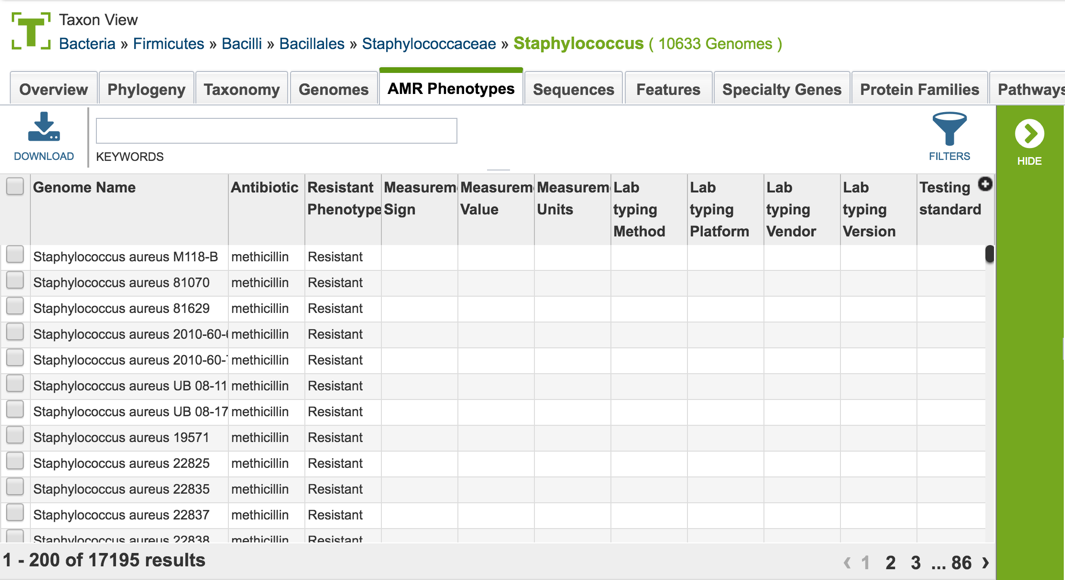
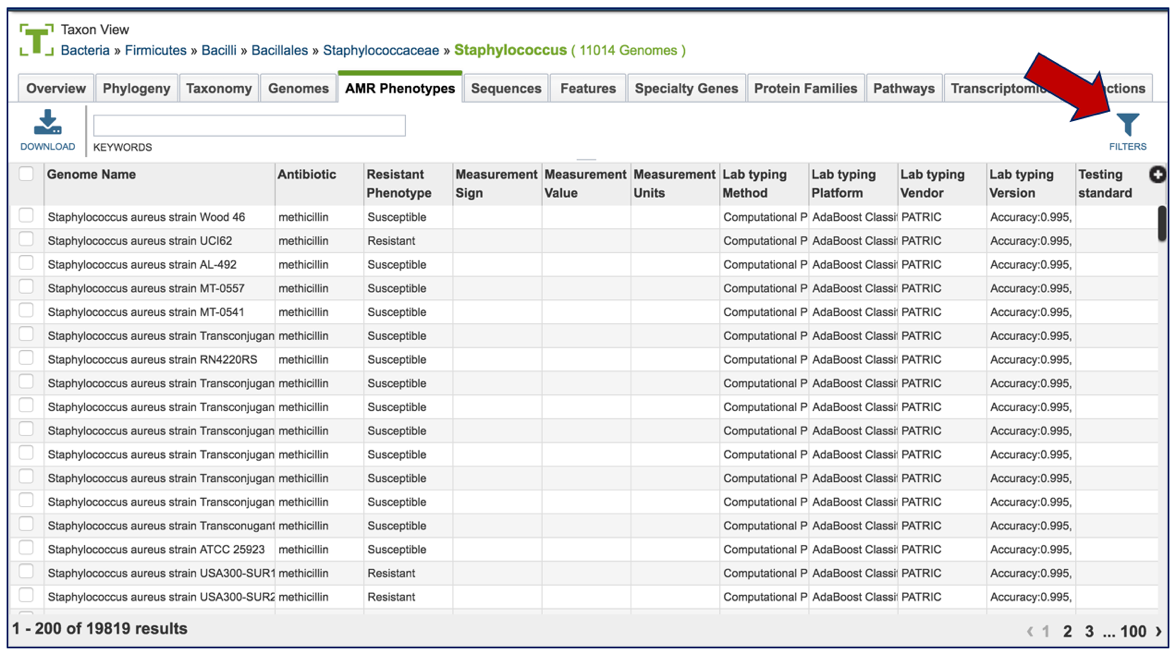
update amr tutorial based on november_2017 doc.

Changed region(s): [[0.0, 0.0, 1.0, 1.0]]

diff --git a/docroot/tutorial/amr/amr.md b/docroot/tutorial/amr/amr.md
@@ -1,51 +1,53 @@
-# Examining Antimicrobial Resistance (AMR) data
+# Examining Antimicrobial Resistance (AMR) data in PATRIC
 
 ## 1. Finding AMR data in PATRIC
+
 1.1. Using Global Search to find antibiotic information
-1.1.1. The Global Search box is located at the top right of every PATRIC page.
+
+- 1.1.1. The Global Search box is located at the top right of every PATRIC page.
 ![Step 1](./images/image1.png "Step 1")
 
-1.1.2. Enter the name of an antibiotic of interest, and then click on the down arrow that follows All Data Types.
+- 1.1.2. Enter the name of an antibiotic of interest, and then click on the down arrow that follows All Data Types.
 ![Step 2](./images/image2.png "Step 2")
 
-1.1.3. This will open a drop-down box that allows you to filter on specific types of data. Click first on Antibiotic, and then on the search icon that you can see in the text box.
+- 1.1.3. This will open a drop-down box that allows you to filter on specific types of data. Click first on Antibiotic, and then on the search icon that you can see in the text box.
 ![Step 3](./images/image3.png "Step 3")
 
-1.1.4. This will open the search results page. You will see higher level categories in a box at the top of the page. Click on the number that follows the word Antibiotics.
+- 1.1.4. This will open the search results page. You will see higher level categories in a box at the top of the page. Click on the number that follows the word Antibiotics.
 ![Step 4](./images/image4.png "Step 4")
 
-1.1.5. This will open the Antibiotics List View where you can drill down on information on specific antibiotics (described below).
+- 1.1.5. This will open the Antibiotics List View where you can drill down on information on specific antibiotics (described below).
 ![Step 5](./images/image5.png "Step 5")
 
 1.2. Using Taxon landing pages to find antibiotic information
-1.2.1. From the Organisms tab, click on a genus of interest.
+
+- 1.2.1. From the Organisms tab, click on a genus of interest.
 ![Step 6](./images/image6.png "Step 6")
 
-1.2.2. This will open the Taxon View landing page, that summarizes all the data for that genus. A table that summarizes the number of genomes that have been identified as resistant, susceptible or intermediate is available on the top right.
+- 1.2.2. This will open the Taxon View landing page, that summarizes all the data for that genus. A table that summarizes the number of genomes that have been identified as resistant, susceptible or intermediate is available on the top right.
 ![Step 7](./images/image7.png "Step 7")
 
-
-1.2.3. To find specific data on the AMR phenotypes, click on that tab at the top of the page.
+- 1.2.3. To find specific data on the AMR phenotypes, click on that tab at the top of the page.
 ![Step 8](./images/image8.png "Step 8")
 
-1.2.4. This will open a table that shows all the genomes across the genus that have been identified as being resistant, intermediate, or susceptible.
+- 1.2.4. This will open a table that shows all the genomes across the genus that have been identified as being resistant, intermediate, or susceptible. Clicking on the filter icon that can be found at the top of the table will open a dynamic filter.
 ![Step 9](./images/image9.png "Step 9")
 
-1.2.5. Clicking on the filter icon that can be found at the top of the table will open a dynamic filter that has information on the phenotype, laboratory typing and testing methods that can be selected to narrow the number of genomes.
+- 1.2.5.	The filter that has information on the phenotype, laboratory typing and testing methods that can be selected to narrow the number of genomes.
 ![Step 10](./images/image10.png "Step 10")
 
-1.2.6. The search can be narrowed by clicking on specific fields.
+- 1.2.6. The search can be narrowed by clicking on specific fields.
 ![Step 11](./images/image11.png "Step 11")
 
-1.2.7. Clicking of a genome of interest will show all possible downstream analysis steps or views will appear in the vertical green bar. Click on the Genome icon.
+- 1.2.7. Clicking of a genome of interest will show all possible downstream analysis steps or views will appear in the vertical green bar. Click on the Genome icon.
 ![Step 12](./images/image12.png "Step 12")
 
-1.2.8. This will open the Genome View landing page, where the AMR phenotypes are displayed on the to right.
+- 1.2.8. This will open the Genome View landing page, where the AMR phenotypes are displayed on the to right.
 ![Step 13](./images/image13.png "Step 13")
 
 1.3. Using the Data tab to find antibiotic information
 
-1.3.1. Information on AMR can be found by clicking on the Data tab, and then on Antibiotic Resistance under Data Types.
+- 1.3.1. Information on AMR can be found by clicking on the Data tab, and then on Antibiotic Resistance under Data Types.
 ![Step 14](./images/image14.png "Step 14")
 
 ## 2.	Exploring AMR data in PATRIC-Overview
@@ -155,11 +157,9 @@
 3.29.	This will open the Genome Browser, which will show you the exact location of the region associated with AMR resistance.
 ![Step 49](./images/image48.png "Step 49")
 
-
-
 ## References
-1.	Liu B, Pop M. ARDB—antibiotic resistance genes database, Nucleic Acids Res 2009;37:D443-D447.
-2.	McArthur AG, Waglechner N, Nizam F et al. The comprehensive antibiotic resistance database, Antimicrobial agents and chemotherapy 2013;57:3348-3357.
-3.	NCBI. Bacterial Antimicrobial Resistance Reference Gene Database. ([https://www.ncbi.nlm.nih.gov/bioproject/?term=3130472017](https://www.ncbi.nlm.nih.gov/bioproject/?term=3130472017), date last accessed).
-4.	Davis JJ, Boisvert S, Brettin T et al. Antimicrobial resistance prediction in PATRIC and RAST, Sci Rep 2016;6.
-5.	Kim S, Thiessen PA, Bolton EE et al. PubChem substance and compound databases, Nucleic Acids Res 2015:gkv951.
+1. Liu B, Pop M. ARDB—antibiotic resistance genes database, Nucleic Acids Res 2009;37:D443-D447.
+2. McArthur AG, Waglechner N, Nizam F et al. The comprehensive antibiotic resistance database, Antimicrobial agents and chemotherapy 2013;57:3348-3357.
+3. NCBI. Bacterial Antimicrobial Resistance Reference Gene Database. ([https://www.ncbi.nlm.nih.gov/bioproject/?term=3130472017](https://www.ncbi.nlm.nih.gov/bioproject/?term=3130472017), date last accessed).
+4. Davis JJ, Boisvert S, Brettin T et al. Antimicrobial resistance prediction in PATRIC and RAST, Sci Rep 2016;6.
+5. Kim S, Thiessen PA, Bolton EE et al. PubChem substance and compound databases, Nucleic Acids Res 2015:gkv951.
